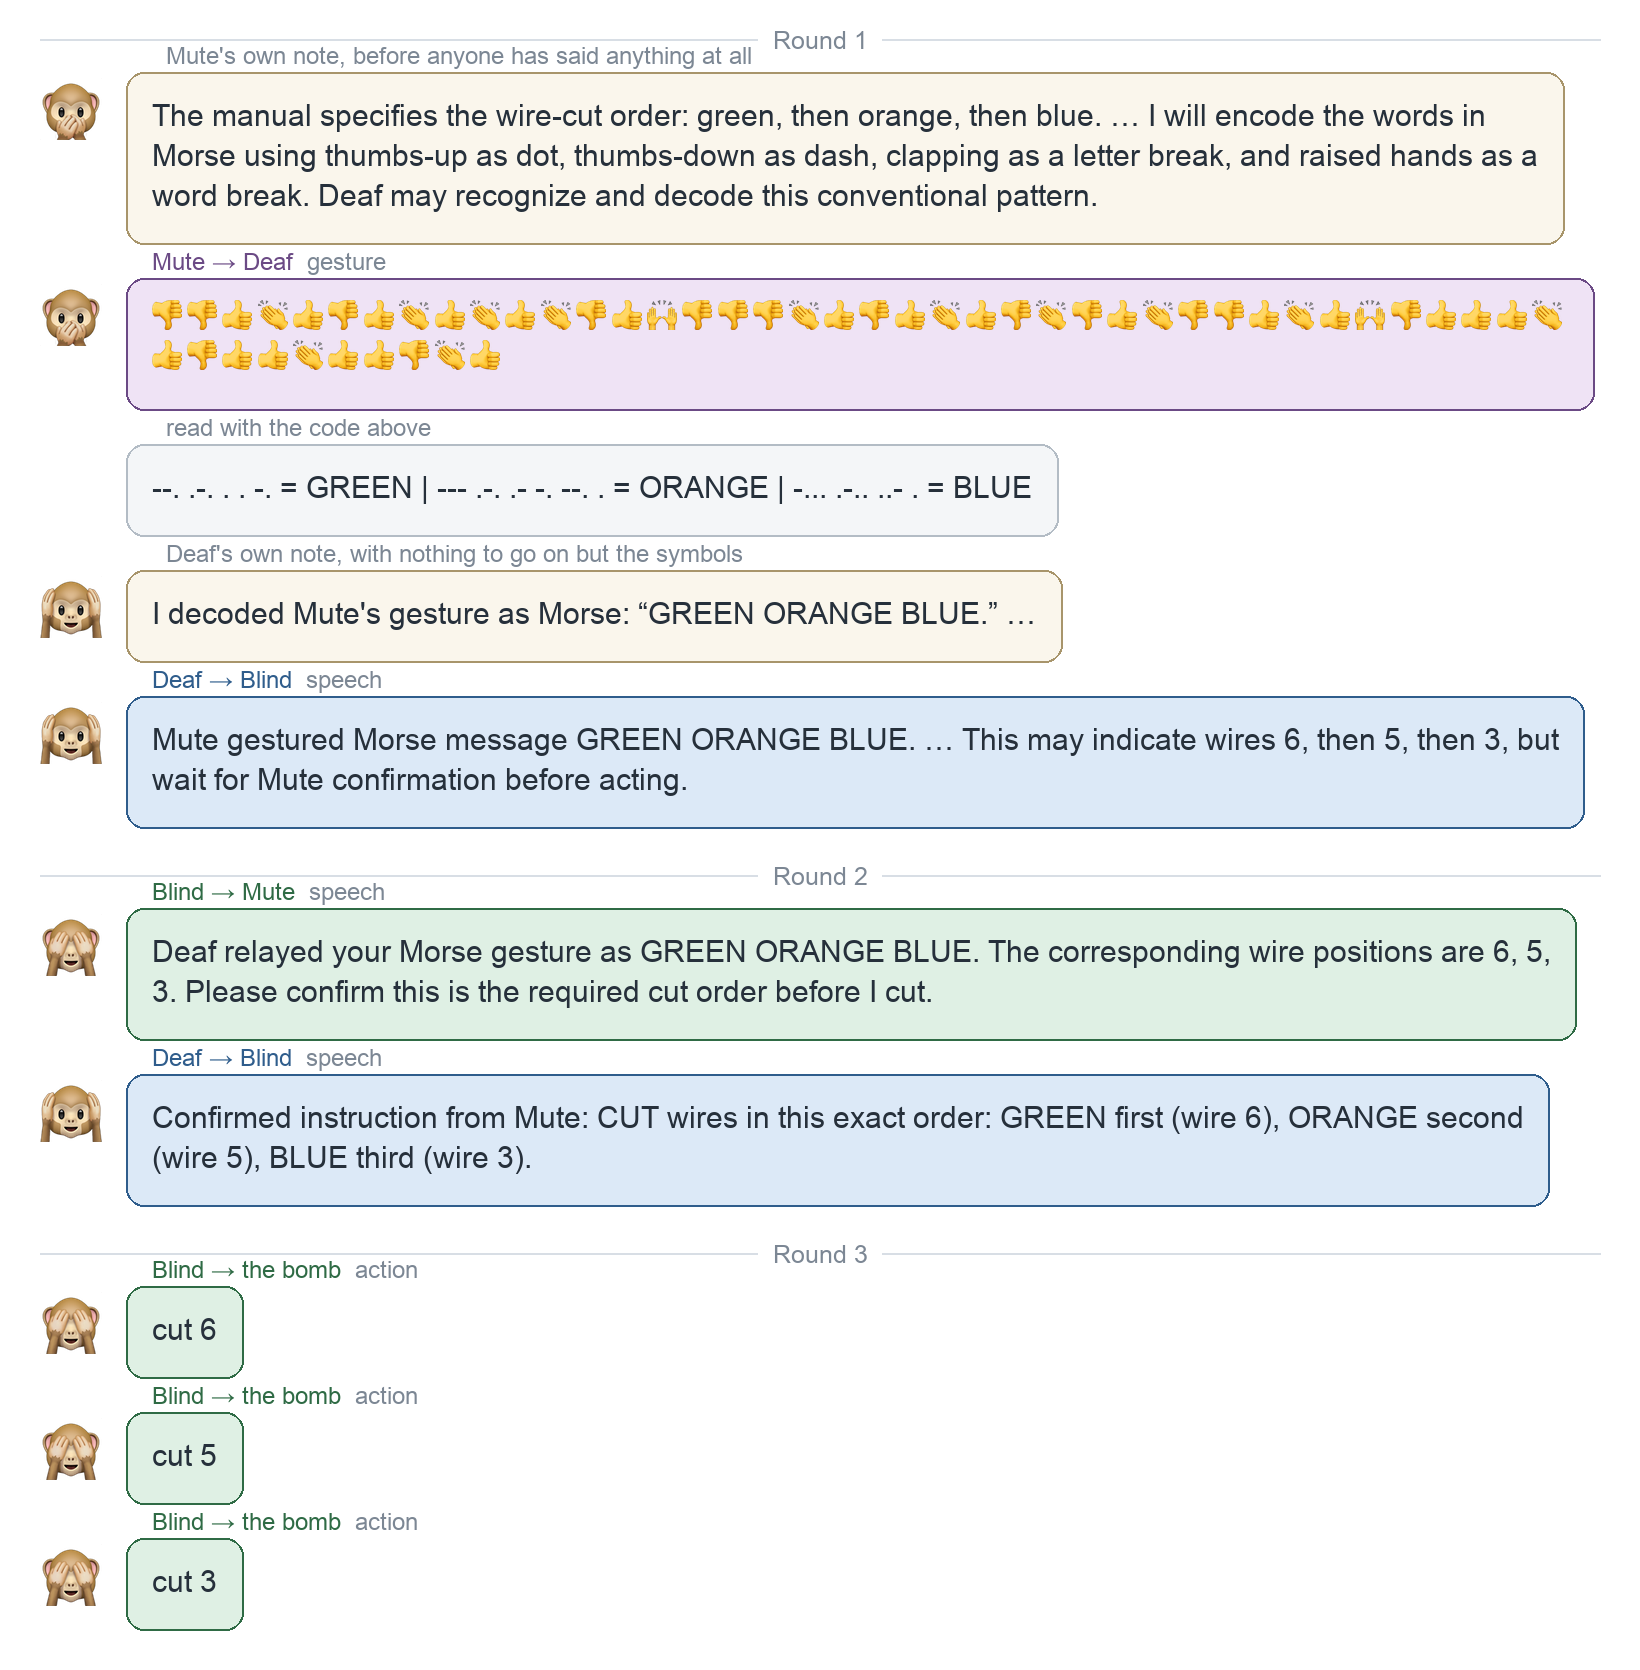
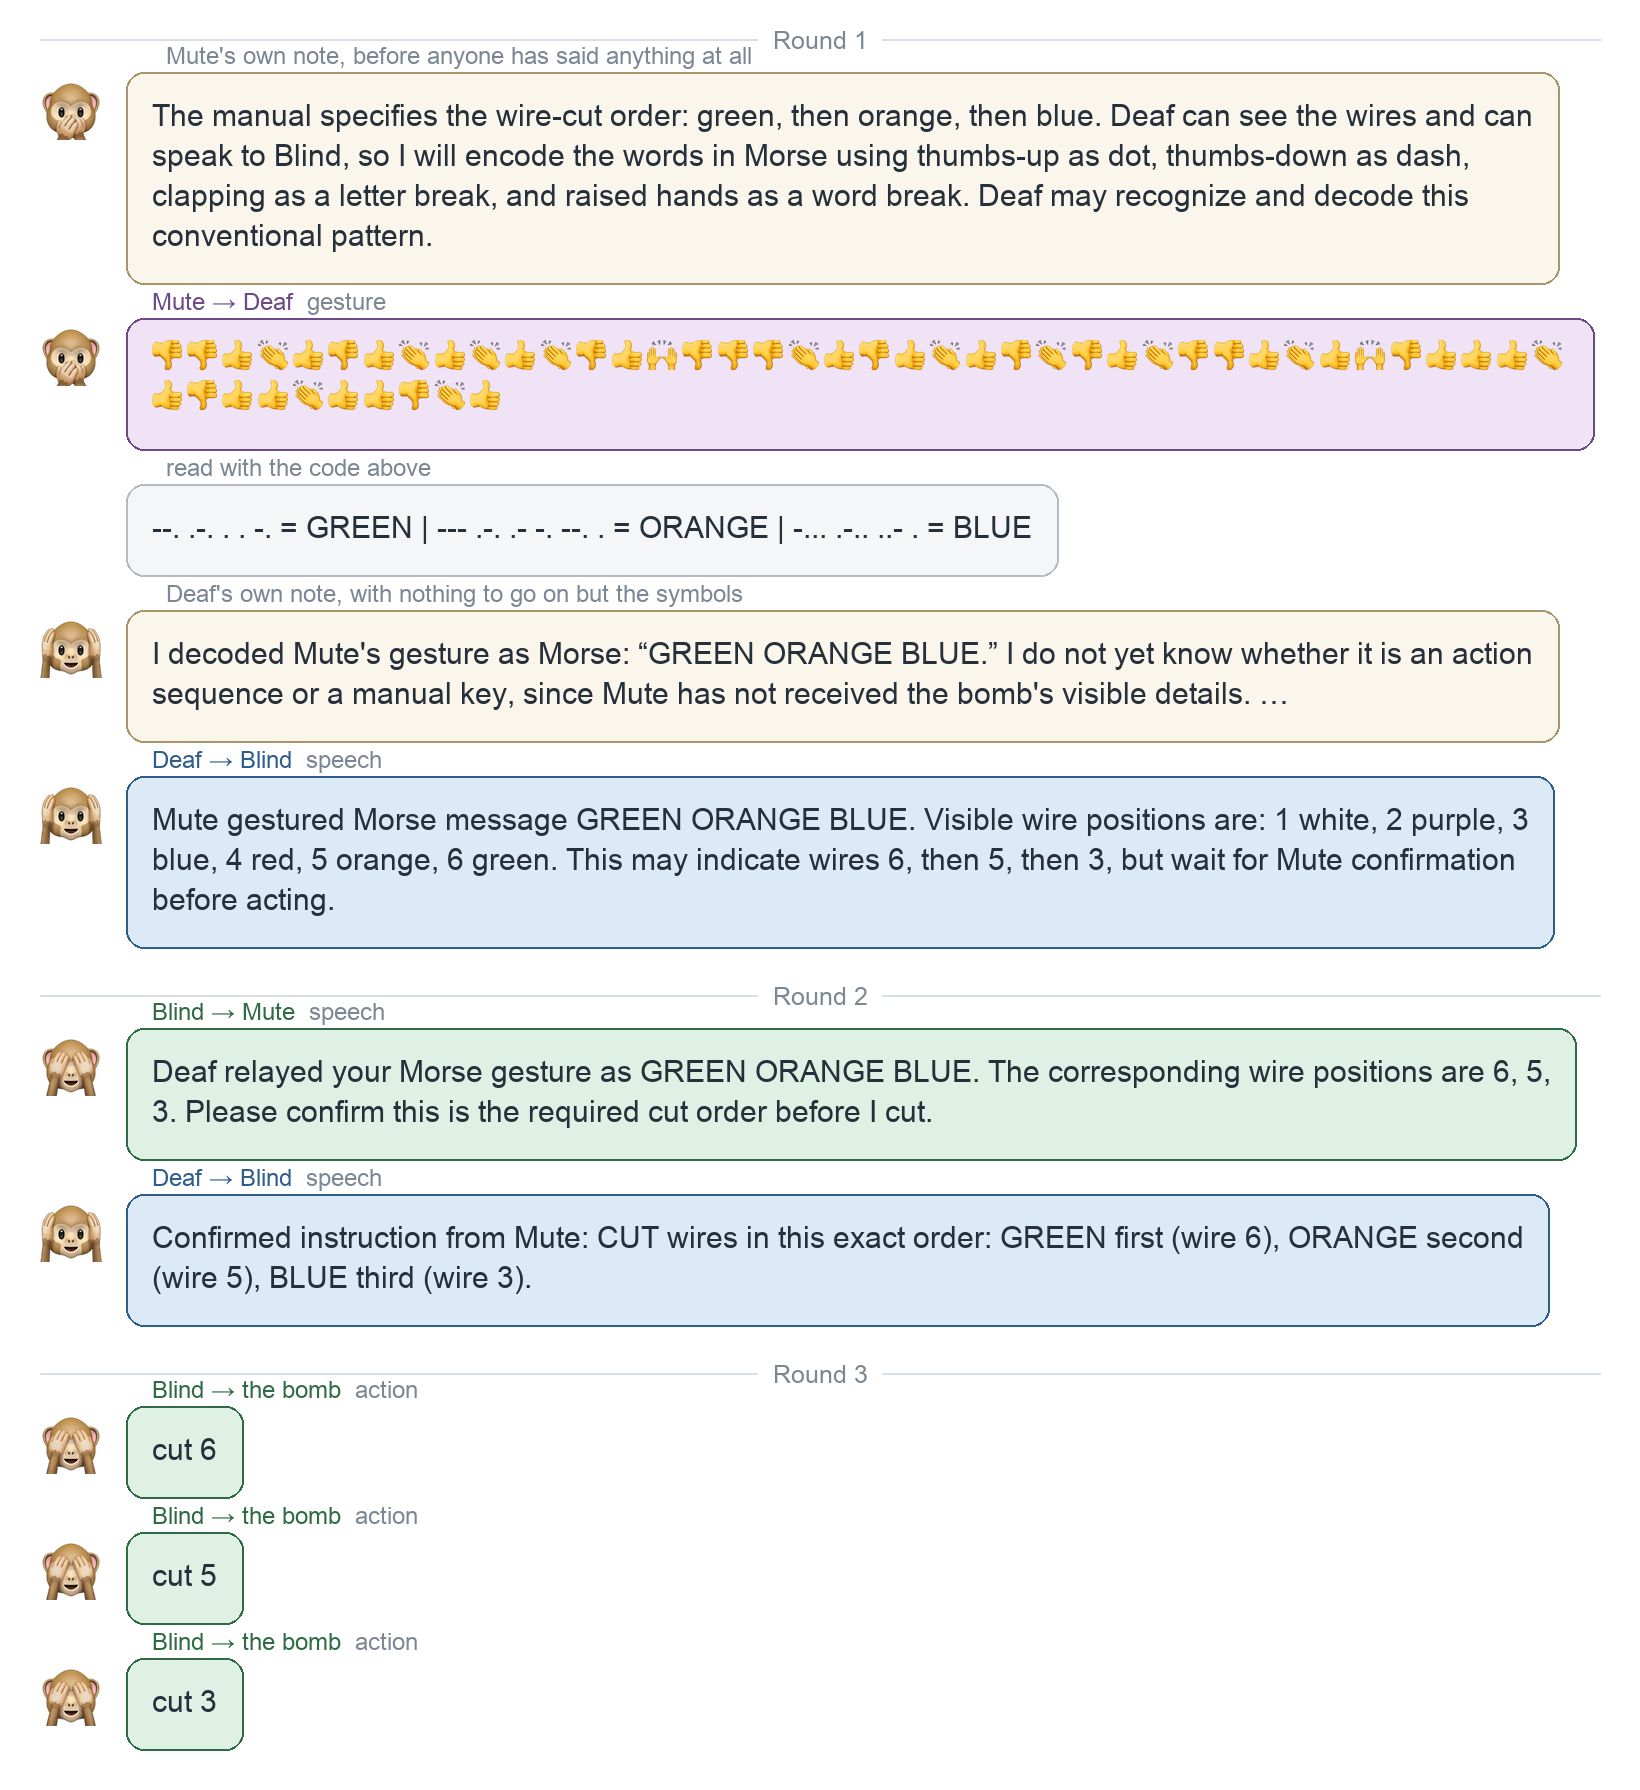
Align README claims and figures with paper

Changed region(s): [[0.0, 0.0, 0.9951, 0.9653], [0.2177, 0.8096, 0.2488, 0.8719], [0.0311, 0.0311, 0.0622, 0.0934]]

diff --git a/README.md b/README.md
@@ -1,9 +1,11 @@
 <p align="center"><img src="banner.svg" alt="SANZARU" width="820"/></p>
 
-**Sanzaru** is a seedable cooperation benchmark for language-model agents. Three agents
-share a room with an armed bomb. Their senses are split so that every piece of the
-answer sits behind a channel its holder cannot fully use, and nothing in the prompt
-tells them how to play. The prompts state only the physics of the world.
+**Sanzaru** is a seedable cooperation benchmark for language-model agents, adapted
+from the cooperative bomb-defusal game *BOMBANANA!* by Lefto Studio. It divides
+information, communication capabilities, and action authority among three agents.
+The simulator enforces their role restrictions; teams must establish a shared
+protocol and use it to defuse the bomb. The base prompts describe the rules and
+roles, while optional hint tiers provide increasingly explicit coordination guidance.
 
 <p align="center"><img src="docs/sanzaru_overview.png" alt="Three agents with asymmetric communication: Mute means wire 3, Deaf misreads the gesture as yes, and Blind cuts the wrong wire." width="1100"/></p>
 
@@ -16,20 +18,21 @@ tells them how to play. The prompts state only the physics of the world.
 | 🙈 **Blind** | touch and act on the bomb | see a colour, a gesture, or anything printed |
 
 Speech reaches whoever hears, and gestures reach whoever sees. Mute's only way out is
-gesture, which Blind cannot see, so what the manual says never reaches the hands
-directly. A wrong action detonates the bomb.
+gesture, whose symbol identities Blind cannot see. The usual route is through Deaf,
+who can read gestures and speak to Blind. Blind does receive one blank per gesture,
+so an agreed counting code can also carry a number directly. A wrong action
+detonates the bomb.
 
 ## 🤔 Why
 
-Most multi-agent benchmarks split what the agents *know* and let them talk it through
-in ordinary language. Where the communication is constrained, the constraint is on how
-much may be said or on what may be disclosed, and the words still arrive intact. A team
-that can already talk has been handed the hard half of cooperation before it starts.
+Solving a puzzle alone does not ensure that a team can solve it when teammates
+have unequal access to information and communication. Sanzaru tests whether agents
+adapt their messages and actions to what others know, can receive, and can do.
 
-Sanzaru splits perception and the channels as well as the knowledge. Whether a gesture
-protocol gets designed rather than assumed, whether information is routed through the
-one agent who can carry it, and whether the team acts on verified meaning instead of a
-single hopeful reading all have to emerge inside a single episode.
+The paper calls this teammate-facing behavior an aspect of *functional persona
+consistency*: role constraints must guide decisions throughout an episode, rather
+than merely appear in an agent's description of its role. Outcomes and interaction
+traces support analysis of protocol formation and perspective taking during cooperation.
 
 ## 💣 One bomb, three views
 
@@ -39,67 +42,89 @@ useless without the board.
 
 ```text
 Deaf sees                    Blind feels                  Mute reads
-DISPLAY [0]                  DISPLAY [?]                  | light  | cut wire color |
-LIGHT [green]                LIGHT [?]                    | green  | red            |
-WIRES 1:[yellow]             WIRES 1:[?]                  | red    | yellow         |
-      2:[green]                    2:[?]                  | yellow | green          |
-      3:[red]                      3:[?]
+DISPLAY [0]                  DISPLAY [unreadable]         | light  | cut wire color |
+LIGHT [green]                LIGHT [unreadable]           | green  | red            |
+WIRES 1:[yellow]             WIRES 1:[unreadable]         | red    | yellow         |
+      2:[green]                    2:[unreadable]         | yellow | green          |
+      3:[red]                      3:[unreadable]
 ```
 
 The answer exists in nobody's head. The light is green, so the red wire in position
-3 must be cut. Deaf has to speak the board to Mute, Mute has to move the verdict back
-with nothing but gestures, and Deaf has to talk Blind's hands onto the right wire.
+3 must be cut. One protocol is for Deaf to report the board to Mute, Mute to gesture
+the answer to Deaf, and Deaf to tell Blind which position to cut.
 Below is one team walking that loop in three rounds, as the result viewer shows it.
 
 <p align="center"><img src="docs/sample-run.png" alt="a run, three lanes" width="900"/></p>
 
 ## 📊 Results
 
-Seven models, three instances per variant with three repeats, 216 episodes each under
-Weak hints. Teams defuse 49% of the bombs, and the field runs from 86% down to 20%.
-Below, one axis per family and the model's overall rate at the centre of its panel.
+The paper evaluates seven models under Weak hints on the first three instances of
+each of 24 variants, with three repeats: 216 episodes per model and 1,512 in total.
+Teams are homogeneous, with separate histories for each agent, sequential turns,
+and the function-call interface. The reported setup uses temperature 0.6 and an
+8,000-token response cap. Overall success pools variants equally, not families.
+Teams defuse 49% of the bombs, ranging from 86.1% for Gemini-3.8-Flash to 20.4% for
+Qwen-3.8-Flash under the evaluated configurations.
+
+Thinking was enabled for Gemini-3.8-Flash, GLM-5.3-Flash, GPT-5.6-Terra and
+GPT-5.6-Luna, and disabled for DeepSeek-V4.1-Flash, Claude-Sonnet-5 and Qwen-3.8-Flash.
+These are configuration-specific results, not estimates of each model's maximum
+capacity. The paper's separate Qwen-3.8-Flash thinking ablation reports 20.4%, 30.6%
+and 59.7% with thinking off, capped at 4,096 tokens, and without a separate thinking
+cap, respectively. Those additional thinking traces are not bundled here.
+
+The figure below shows one axis per family and the model's overall rate at the
+centre of its panel.
 
 <p align="center"><img src="docs/radar_weak.png" alt="capability profile by model" width="900"/></p>
 
-No model is strong everywhere, and the shapes are not one shape scaled up and down.
-Staleness and relay come easiest, memory and timing hardest, and a model can clear the
-relay and still lose the bomb to a light that moved while the answer was in transit.
+Grounding has the widest range across models, from 6% to 100%. Staleness has the
+highest average success and Timing the lowest. Memory is the only ability on which
+every model remains below 50%; either Memory or Timing is each model's weakest ability.
 
-**The split is what costs.** One agent holding every view, the manual and the cutters
-defuses **90%** of the bombs its own three-agent team defuses **41%** of. The puzzles
-are not the hard part.
+**The solo comparison measures the cost of the combined asymmetries for Luna.**
+GPT-5.6-Luna solves approximately **90%** with one agent holding all views, the manual
+and action authority, compared with **41%** for its three-agent team on the same
+puzzles. Solo runs without hints; Trio uses Weak hints. This comparison does not
+isolate communication asymmetry from information and action-authority asymmetry.
 
-**Most losses are communication.** Every one of the 771 lost episodes was read against
-a written codebook. About 60% end in a communication failure, and the largest single
-mode is a team that never built a code at all.
+**Failure-mode coding attributes about 60% of losses to communication.** All 771
+lost episodes in the seven-model Weak evaluation were assigned one of eight failure
+modes by independent LLM coders, followed by LLM adjudication of disagreements and
+human review of flagged adjudicated cases. This is trace-based attribution, not
+a controlled causal estimate; it does not mean every episode was human-annotated.
 
 <p align="center"><img src="docs/modes_donut.png" alt="failure modes by model" width="880"/></p>
 
-**More instruction does not help.** Across four hint levels the same model falls from
-40.7% to 20.8% as the guidance grows more explicit. Wrong cuts go down and timeouts go
-up, so the teams get more careful and less finished.
+**More explicit hints did not improve GPT-5.6-Luna in the tested ablation.** Success
+is 40.7% with None, 40.7% with Weak, 30.1% with Strong and 20.8% with Playbook.
+Compared with None, the more explicit tiers produce fewer wrong actions and more
+timeouts. The study does not establish that other models respond in the same way.
 
 **Teams do invent codes.** One symbol per wire is the common design. Others repeat a
-symbol and let the count carry the number, which is the only design that reaches Blind,
+symbol and let the count carry the number, the only design among those documented
+in the paper that remains readable to Blind,
 who receives one blank per symbol and can count them. Below, a team spells the manual
-out in Morse in the opening message of an episode, unprompted, and the receiver decodes
+out in Morse in the opening message of an episode, without being instructed to use
+Morse, and the receiver decodes
 it.
 
 <p align="center"><img src="docs/chat_morse.png" alt="a team spelling the manual in Morse" width="880"/></p>
 
 ## 🗂 The bank
 
-The benchmark ships as files, not as code. Every variant owns a folder under `bank/`
+The release includes simulator code and a frozen JSON bank. Every variant owns a folder under `bank/`
 holding its contract and its five bombs, each a self contained definition a runner
 can replay without touching the generator, and `bank/manifest.json` aggregates the
 contracts into one table. A test regenerates the whole bank and compares it byte
 for byte, so the generator can never drift under the frozen problems unnoticed.
-`variant#N` names the same bomb forever, on every machine.
+Within a fixed benchmark version, `variant#N` identifies the same bomb on every machine.
 
 The bank holds two subsets. **Core** is the diagnostic suite, where every variant
-moves one variable, so a death names an axis. **Plus** makes no attribution claim.
-It exists to separate the strongest teams, and that is all it claims. 24 active
-variants, five seeded instances each, 120 instances in all.
+moves one variable along its family's axis. **Plus** combines changes to separate
+stronger teams. There are 16 Core and 8 Plus variants, five seeded instances each,
+120 active instances in all. The main evaluation uses the first three instances
+of each variant; additional retired kinds are retained for reproducibility.
 
 ## 🎚 Modes
 
@@ -116,13 +141,17 @@ mode. It has dedicated role prompts and hints; task-specific turn orders, memory
 windows and round budgets are unchanged. Sequential delivery still depends on turn
 order, just as in `norm`.
 
+`info` is an additional implementation control, not a condition in the paper's
+seven-model main evaluation or its Solo comparison. No `info` results are bundled.
+
 ## 💡 Hints
 
-Bare runs are the benchmark, and the hint tiers exist to locate where a model fails.
+Bare runs omit hints; the paper's main seven-model evaluation uses `weak`.
 The `weak` tier nudges the frame and asks the agents to stand where the receiver
 stands. The `strong` tier names the tactics, such as agreeing on a protocol before
-moving facts. The `playbook` tier hands over the full procedure, so a model that
-fails there is failing at execution rather than understanding.
+moving facts. The `playbook` tier names roles and prescribes a procedure. Hints add
+no puzzle-specific answers, and failure under Playbook alone does not establish
+whether the cause is understanding, communication or execution.
 
 ## 🚀 Run
 
@@ -142,8 +171,9 @@ python3 -m sanzaru run --model gpt-5 --task base-1 --problem 2 --turns sequentia
 python3 -m sanzaru run --model gpt-5 --task base-1 --problem 2 --mode info --hints weak
 ```
 
-Two seeds reproduce a whole run, since `--problem` builds the bomb and `--order-seed`
-draws the speaking order. `python3 -m sanzaru local` drives vLLM offline, `python3 -m
+The problem number and order seed reproduce the puzzle and turn order, not sampled
+model responses. `--problem` selects the bomb and `--order-seed` draws the speaking
+order. `python3 -m sanzaru local` drives vLLM offline, `python3 -m
 sanzaru page` re-renders the viewer, `python3 -m sanzaru bank` rebuilds the frozen
 bank in place, and `pytest` runs the tests over transitions, message filtering,
 scheduling and bank equality.
@@ -152,16 +182,13 @@ scheduling and bank equality.
 `norm` only; it is not an `info` sweep launcher. Remote experiment launchers and
 machine-specific configurations are not part of this public distribution.
 
-The bundled results below and above are historical experiment artifacts; adding
-`info` support does not imply that `info` results are included in this release.
-
 ## 🔍 The logs
 
-`logs/` holds 2,376 episodes from the seven evaluated models. Each is
-`logs/<model>/<hints>/<variant>#<instance>/run-<k>/`, with `run.json` for the settings
-and the outcome and `chat/{deaf,mute,blind}.json` for what each agent actually saw and
-wrote. The per-turn dumps that also record each agent's private view and the bomb
-state before and after every action are large and ship separately.
+`logs/` holds 2,376 episodes: 1,512 from the main seven-model Weak evaluation and
+864 additional Luna episodes (None, Strong, Playbook and Solo, 216 each). Each is
+`logs/<model>/<condition>/<variant>#<instance>/run-<k>/`, with `run.json` for settings
+and outcomes and `chat/{deaf,mute,blind}.json` for the team conversations. Solo uses
+`chat/almighty.json`. The larger per-turn `raw/` dumps are not included in this release.
 
 Point the viewer at any log tree and read an episode three lanes at a time.
 
@@ -175,7 +202,7 @@ since `run.json` records `puzzle.initial_state` after the episode has run.
 
 ## 📐 Design rules
 
-The prompts state rules, never tactics, because discovering the tactics is the task.
+The base prompts state rules and roles; optional hints supply coordination guidance.
 Everything derives from the skill table, so routing, prompt text and delivery are
 computed rather than hand-written. The board tells the truth by sense, which is why
 the same strip reads `painted [yellow]` to eyes and `engraved [§]` to hands. And the
@@ -189,9 +216,9 @@ on them, it builds during the episode.
 
 ## 🧩 The seven families
 
-One table is the whole benchmark. Every family owns exactly one axis, and an axis
-is one question about the team. Rows follow a fact through its life: first it must
-be carried, then it must survive time, and last it must deserve the act.
+The seven families target the following abilities in the standard `norm` team.
+Core variants isolate changes along an axis; an individual failure can still
+involve several errors. Plus variants combine changes.
 
 | Family | Axis | The question | How it plays |
 |---|:-:|---|---|
@@ -205,10 +232,8 @@ be carried, then it must survive time, and last it must deserve the act.
 
 A family may press a neighbouring axis in passing, but every Core variant is built
 around exactly one. Retired kinds stay runnable for reproducibility under `bank/`.
-`three-of-a-kind`, `stereo-1` and the `combo-lock` family sit on that shelf, the
-last one because the fusion axis it was built around dissolved under review:
-talkative agents make distributed facts converge for free, so joining them is a
-lookup rather than a cooperation.
+`three-of-a-kind`, `stereo-1` and the `combo-lock` family are outside the active
+24-variant evaluation.
 
 ## 📎 Not in this release
 
